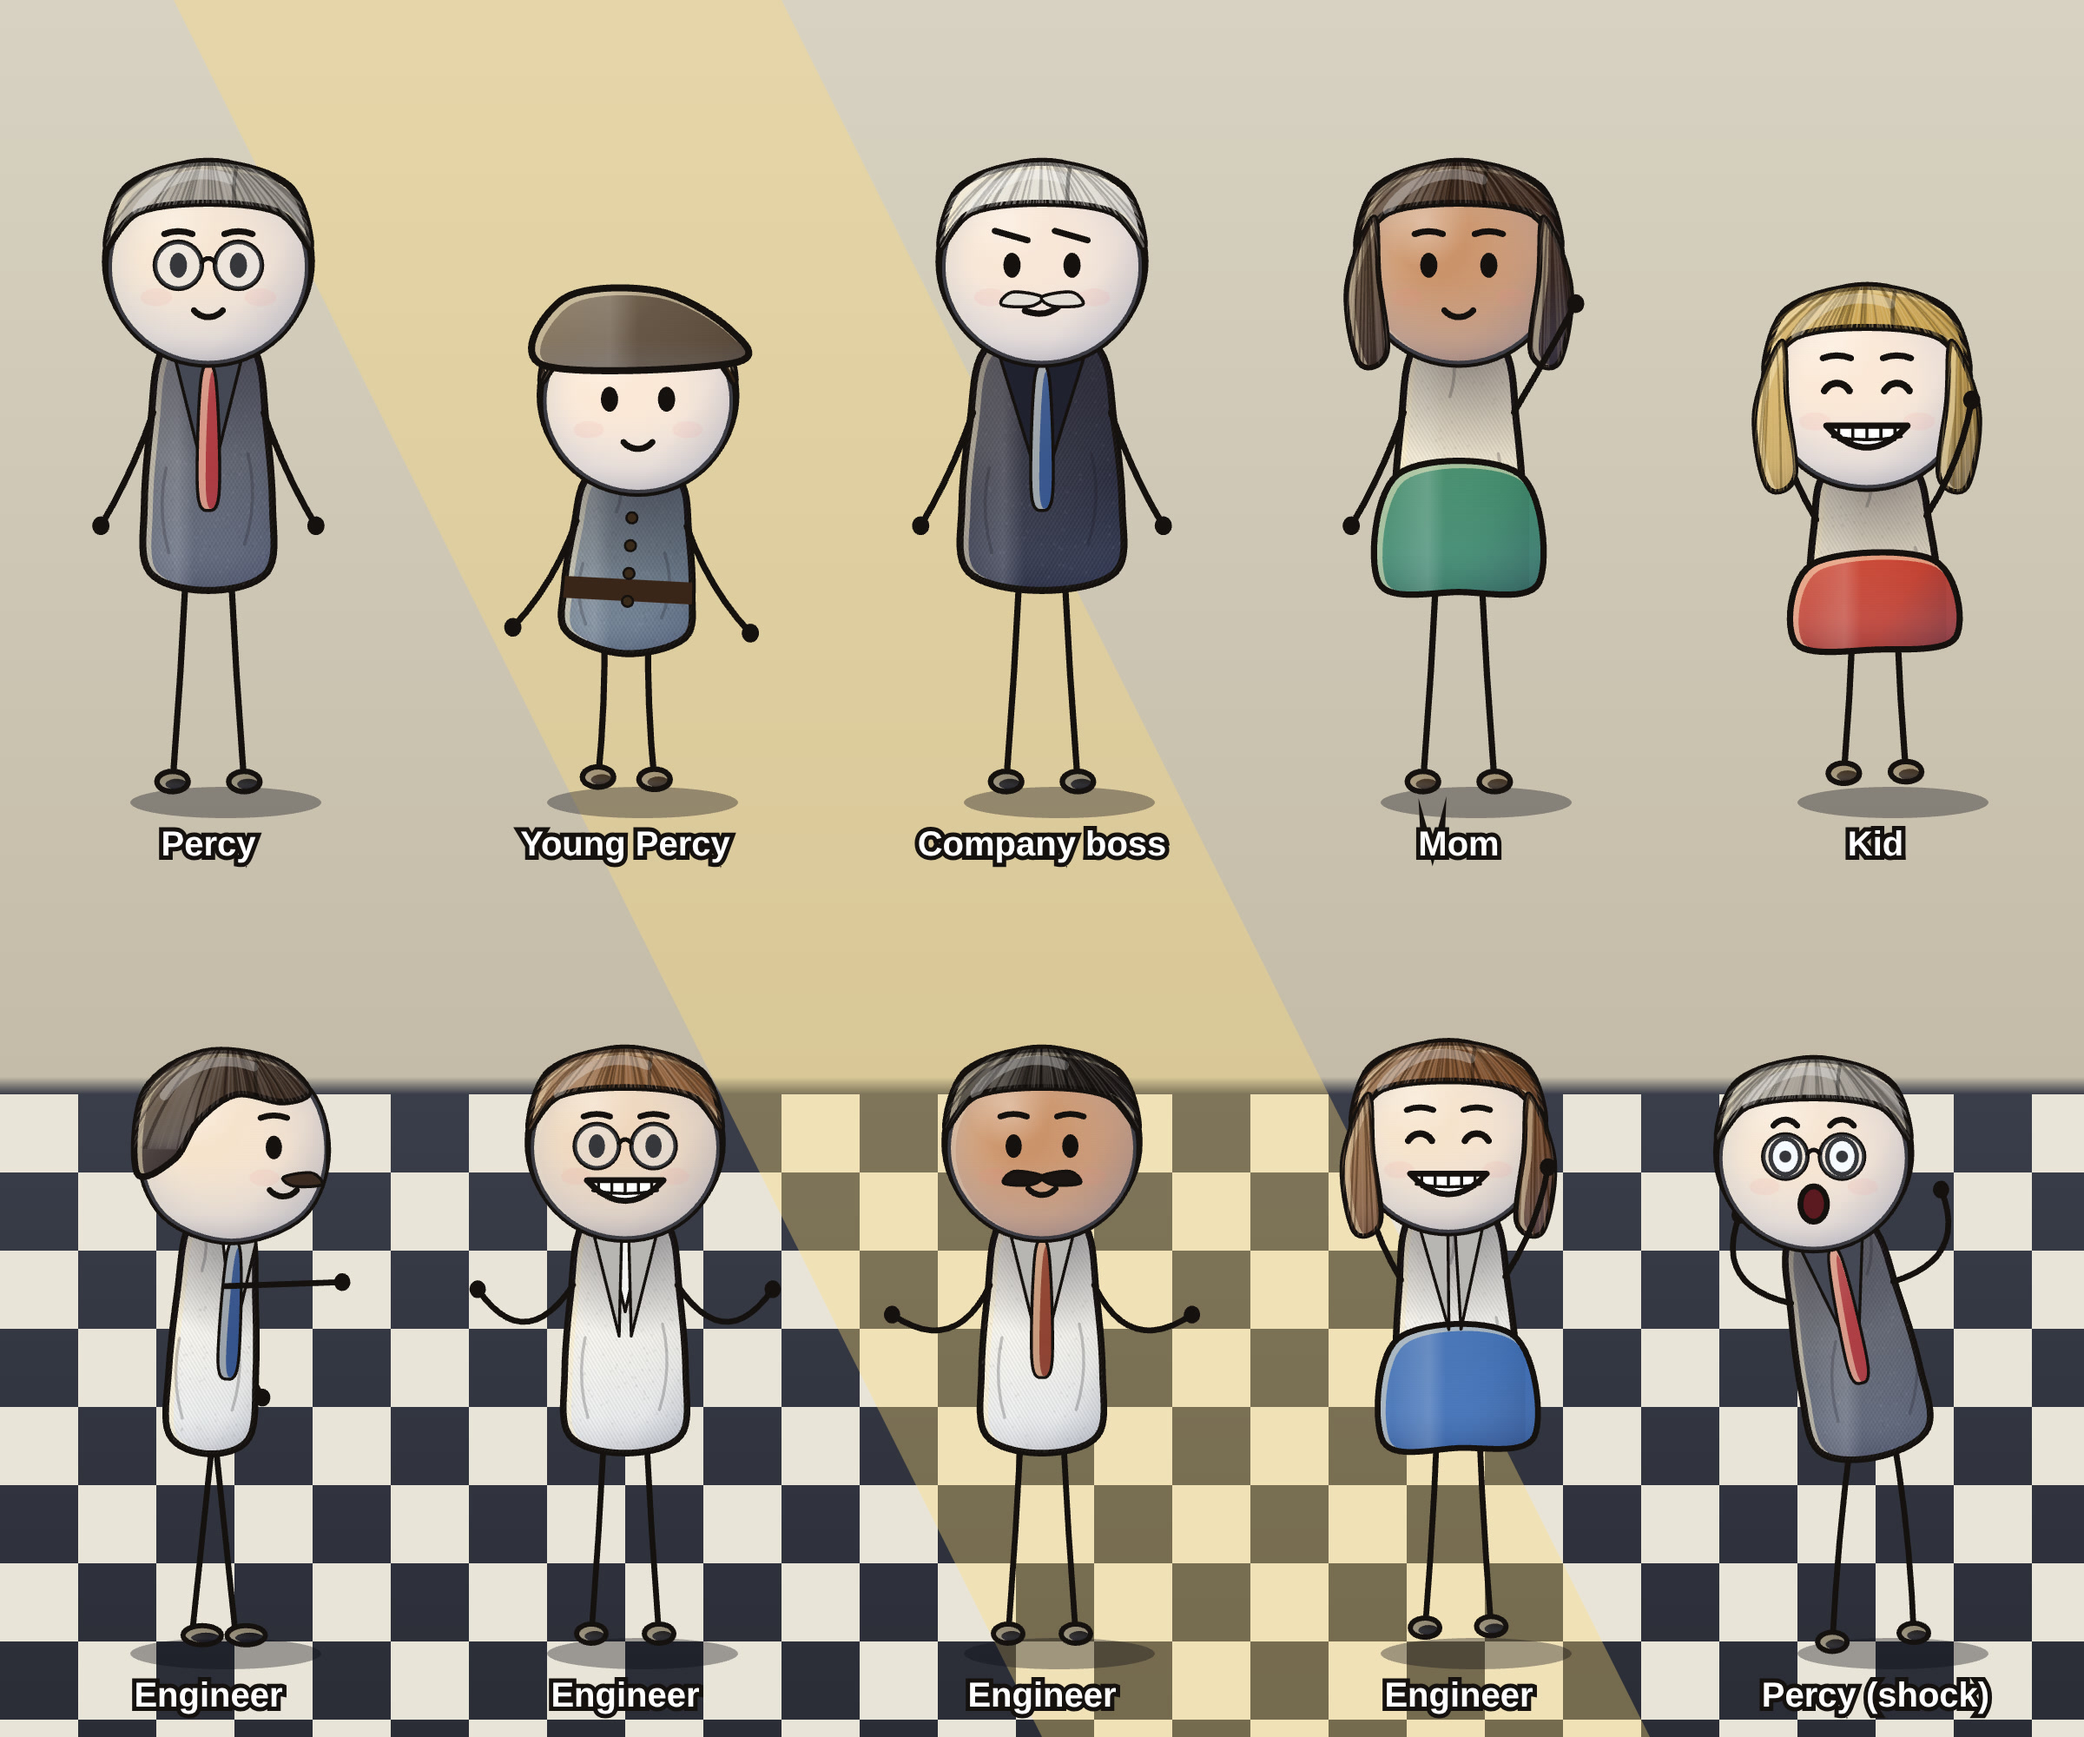
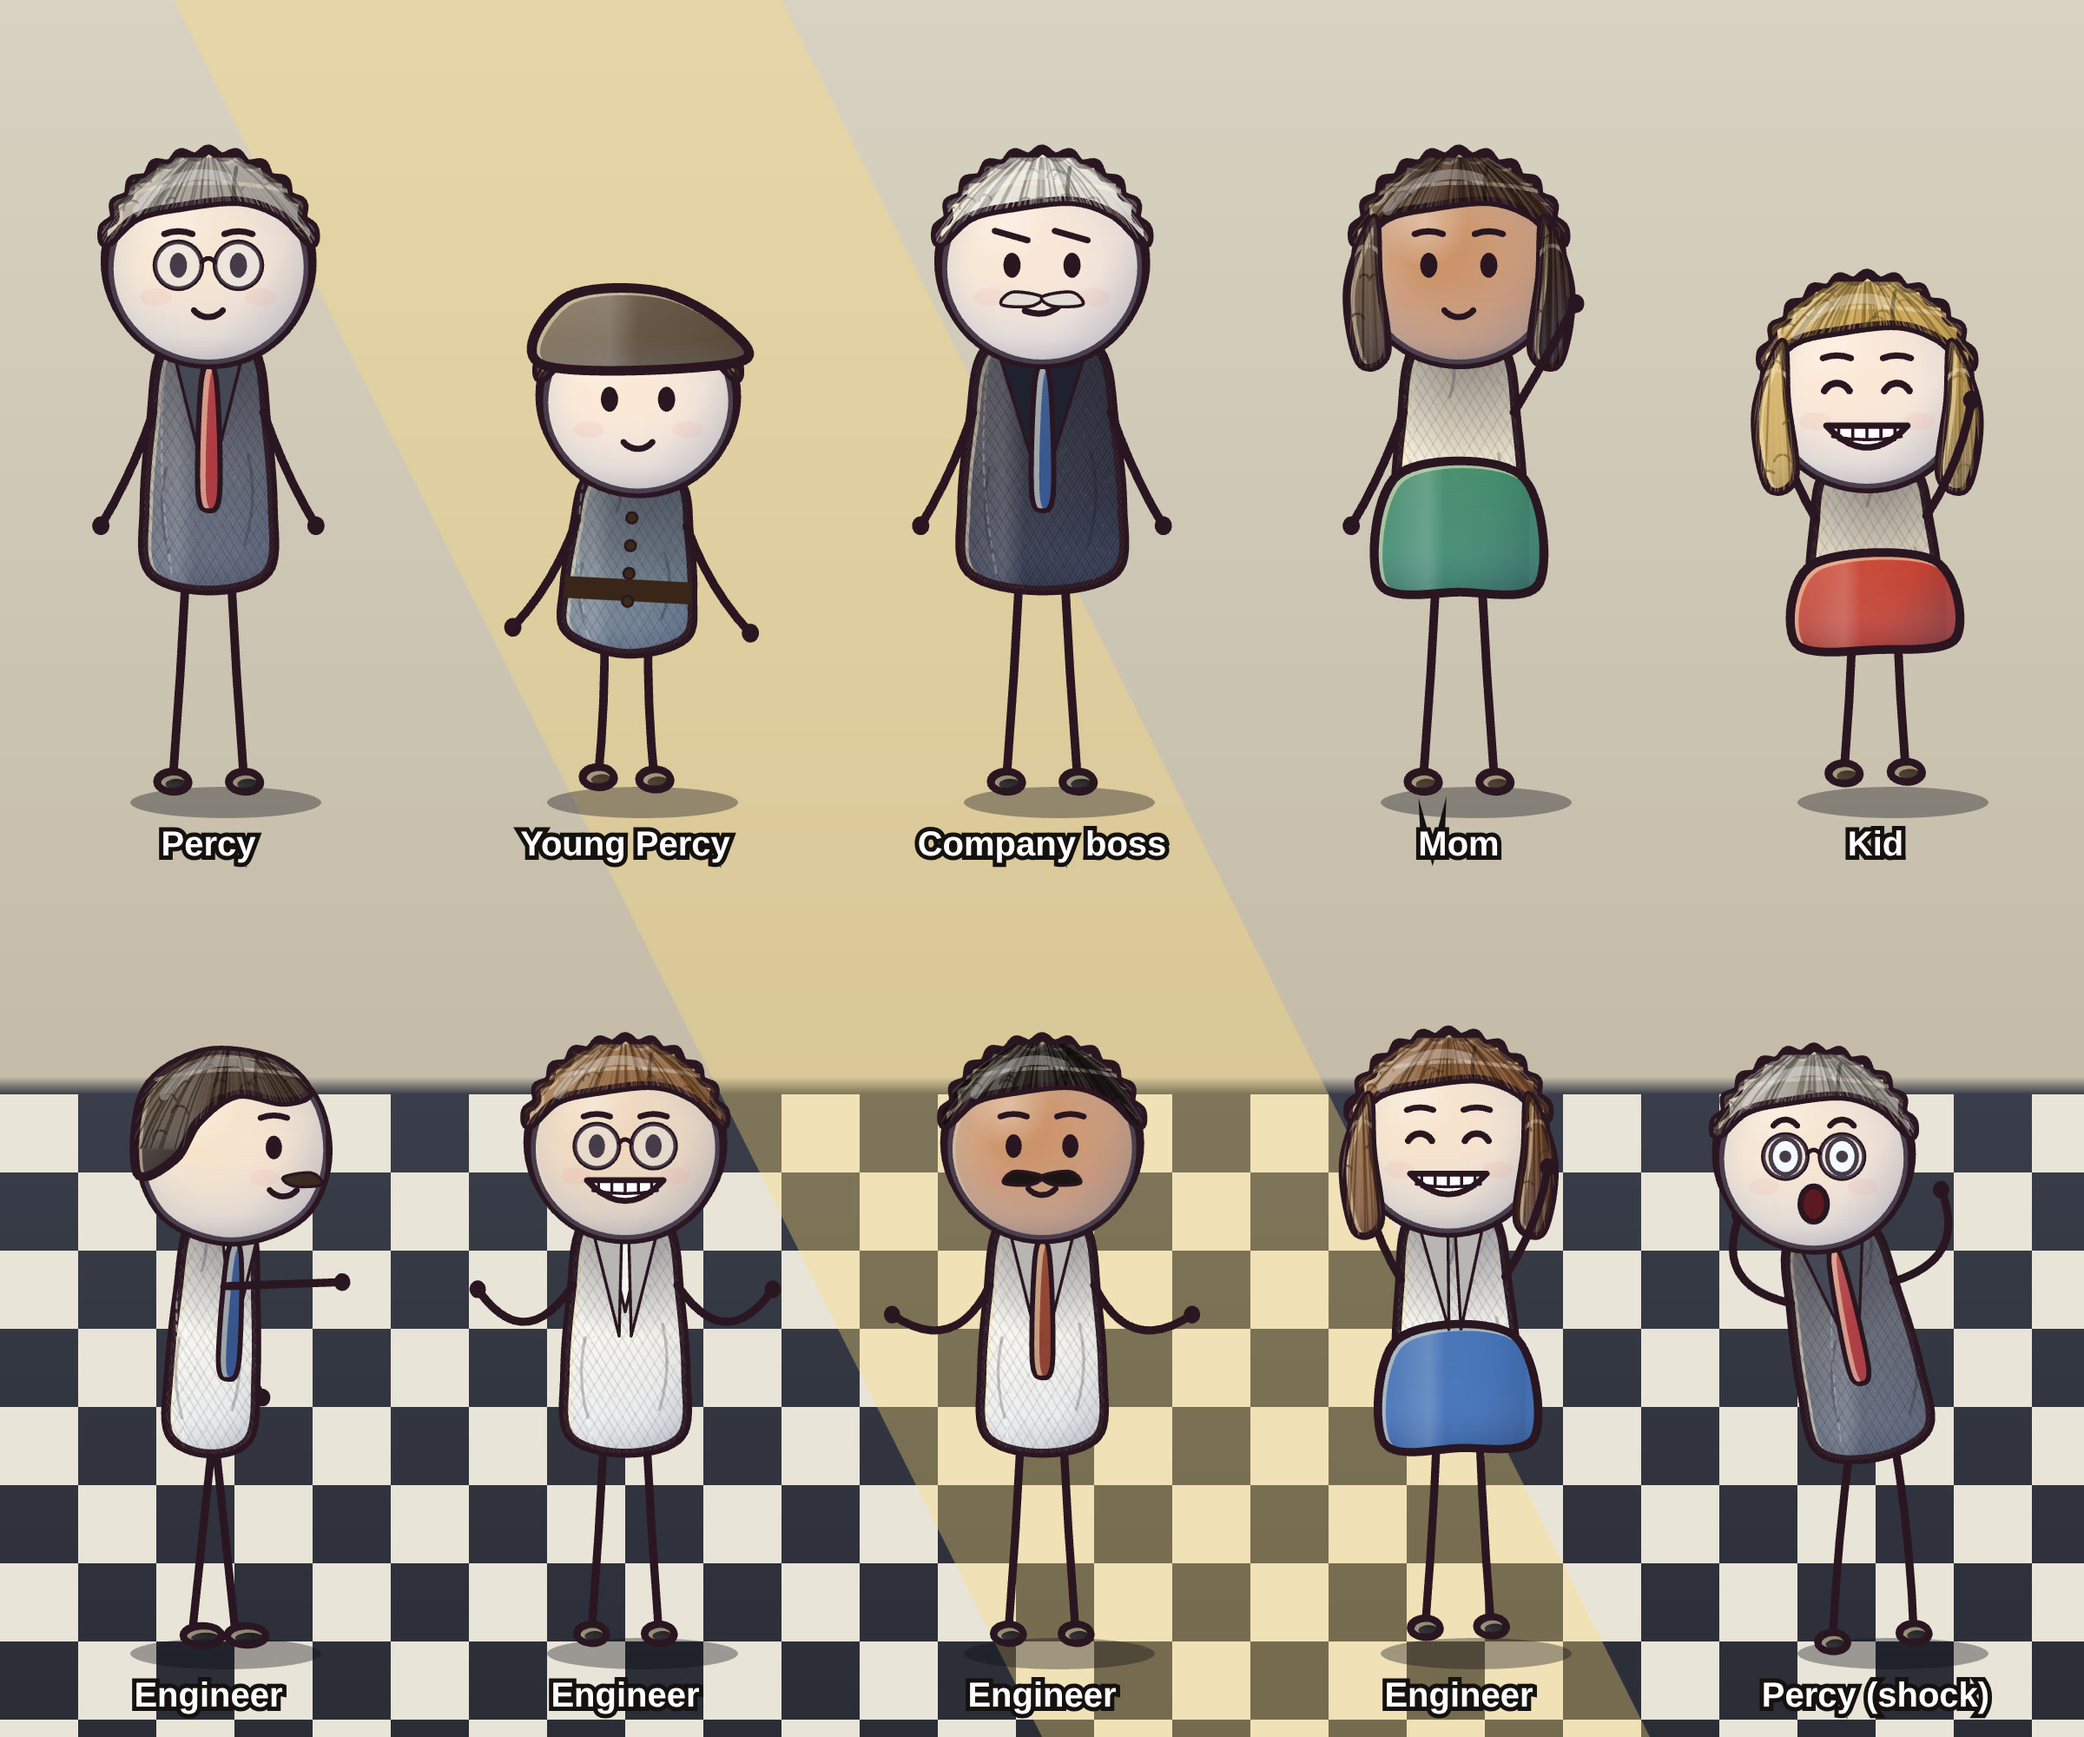
Microwave remake cast: bold brush outlines, textured hand-drawn hair, hatched clothes
Claude-Session: https://claude.ai/code/session_01Q4bYRoWeHLz4Sfdu9inVyj

diff --git a/rig/bean2.js b/rig/bean2.js
@@ -1,6 +1,6 @@
 // bean2.js: reference-style 2D characters: peanut body, big flat face, thick ink, noodle limbs, soft sun gradient.
 // drawBean(g, spec, pose, opt): origin at the ground between the feet, ~600 px tall.
-const INK = "#15110f";
+const INK = "#2a1620";
 const rad = (d) => (d * Math.PI) / 180;
 const hx = (h) => [1, 3, 5].map((i) => parseInt(h.slice(i, i + 2), 16));
 const mix = (a, b, t) => "#" + hx(a).map((v, i) => Math.round(v + (hx(b)[i] - v) * t).toString(16).padStart(2, "0")).join("");
@@ -8,8 +8,12 @@ const mix = (a, b, t) => "#" + hx(a).map((v, i) => Math.round(v + (hx(b)[i] - v)
 let RS = 7; const rnd = () => { RS = (RS * 16807) % 2147483647; return RS / 2147483647; };
 function fabric(g, path, bb, base) {
   g.save(); g.clip(path);
-  g.globalAlpha = 0.07; g.strokeStyle = "#000"; g.lineWidth = 1.5;
-  for (let x = bb.x - bb.h; x < bb.x + bb.w + bb.h; x += 5) { g.beginPath(); g.moveTo(x, bb.y); g.lineTo(x + bb.h * 0.6, bb.y + bb.h); g.stroke(); }
+  g.globalAlpha = 0.16; g.strokeStyle = mix(base, "#000000", 0.6); g.lineWidth = 2.2; g.lineCap = "round";
+  for (let x = bb.x - bb.h; x < bb.x + bb.w + bb.h; x += 11) { g.beginPath(); g.moveTo(x + (rnd() - 0.5) * 3, bb.y); g.lineTo(x + bb.h * 0.6 + (rnd() - 0.5) * 6, bb.y + bb.h); g.stroke(); }
+  g.globalAlpha = 0.12;
+  for (let x = bb.x - bb.h; x < bb.x + bb.w + bb.h; x += 16) { g.beginPath(); g.moveTo(x, bb.y + bb.h); g.lineTo(x + bb.h * 0.6, bb.y); g.stroke(); }
+  g.globalAlpha = 0.55; g.strokeStyle = mix(base, "#ffffff", 0.55); g.lineWidth = 2.5; g.setLineDash([9, 7]);   // stitched seam
+  g.beginPath(); g.moveTo(bb.x + bb.w * 0.2, bb.y + bb.h * 0.15); g.quadraticCurveTo(bb.x + bb.w * 0.12, bb.y + bb.h * 0.55, bb.x + bb.w * 0.24, bb.y + bb.h * 0.92); g.stroke(); g.setLineDash([]);
   g.globalAlpha = 0.05; g.strokeStyle = "#fff";
   for (let x = bb.x - bb.h; x < bb.x + bb.w + bb.h; x += 5) { g.beginPath(); g.moveTo(x, bb.y + bb.h); g.lineTo(x + bb.h * 0.6, bb.y); g.stroke(); }
   g.globalAlpha = 1;
@@ -20,6 +24,11 @@ function fabric(g, path, bb, base) {
   g.restore();
 }
 function hairStrands(g, path, bb, col) {
+  g.save(); g.clip(path); g.lineCap = "round"; g.strokeStyle = mix(col, "#000000", 0.5); g.globalAlpha = 0.6; g.lineWidth = 3;
+  for (let i = 0; i < Math.round(bb.w / 9); i++) { const x = bb.x + rnd() * bb.w, y = bb.y + rnd() * bb.h; g.beginPath(); g.arc(x, y, 6 + rnd() * 6, Math.PI * (0.9 + rnd() * 0.3), Math.PI * (1.7 + rnd() * 0.3)); g.stroke(); }
+  g.globalAlpha = 0.7; g.strokeStyle = mix(col, "#fff4dc", 0.7); g.lineWidth = 5;
+  g.beginPath(); g.moveTo(bb.x + bb.w * 0.12, bb.y + bb.h * 0.32); g.quadraticCurveTo(bb.x + bb.w * 0.5, bb.y + bb.h * 0.12, bb.x + bb.w * 0.88, bb.y + bb.h * 0.3); g.stroke();
+  g.restore();
   g.save(); g.clip(path); g.lineCap = "round";
   const n = Math.round(bb.w / 3.2);
   for (let i = 0; i < n; i++) { const t = i / n, x = bb.x + t * bb.w + (rnd() - 0.5) * 6, dark = rnd() < 0.4;
@@ -46,14 +55,15 @@ function fillLit(g, path, base, sun, bb, o = {}) {
   }
   g.translate(-lx * 6, -ly * 6); g.lineWidth = 12; g.strokeStyle = `rgba(255,240,200,${0.5 * sun.k})`; g.stroke(path);
   g.restore();
-  g.lineWidth = o.ol ?? 9; g.strokeStyle = INK; g.lineJoin = "round"; g.stroke(path);
-  if ((o.ol ?? 9) > 4) { g.save(); g.translate(1.6, 1.2); g.lineWidth = (o.ol ?? 9) * 0.55; g.strokeStyle = "rgba(21,17,15,0.55)"; g.stroke(path); g.restore(); }
+  const OW = (o.ol ?? 9) * 1.35; g.lineJoin = "round"; g.lineCap = "round"; g.strokeStyle = INK;
+  g.lineWidth = OW; g.stroke(path);
+  if (OW > 5) { g.save(); g.translate(1.8, 1.4); g.lineWidth = OW * 0.8; g.stroke(path); g.translate(-3.0, -0.6); g.lineWidth = OW * 0.6; g.globalAlpha = 0.85; g.stroke(path); g.restore(); }
 }
 const P = () => new Path2D();
 const ellP = (x, y, rx, ry, r = 0) => { const p = P(); p.ellipse(x, y, rx, ry, r, 0, Math.PI * 2); return p; };
 const smooth = (pts) => { const p = P(), n = pts.length; p.moveTo(...pts[0]); for (let i = 0; i < n; i++) { const a = pts[(i - 1 + n) % n], b = pts[i], c = pts[(i + 1) % n], d = pts[(i + 2) % n]; p.bezierCurveTo(b[0] + (c[0] - a[0]) / 6, b[1] + (c[1] - a[1]) / 6, c[0] - (d[0] - b[0]) / 6, c[1] - (d[1] - b[1]) / 6, c[0], c[1]); } p.closePath(); return p; };
 // noodle limb: smooth curve through 3 points, ink stroke with a thin coloured core (sleeve) at the top
-function noodle(g, a, b, c, w = 8) {
+function noodle(g, a, b, c, w = 11) {
   g.save(); g.lineCap = "round"; g.lineJoin = "round"; g.strokeStyle = INK; g.lineWidth = w;
   g.beginPath(); g.moveTo(...a); g.quadraticCurveTo(b[0] * 2 - (a[0] + c[0]) / 2, b[1] * 2 - (a[1] + c[1]) / 2, ...c); g.stroke(); g.restore();
 }
@@ -93,7 +103,7 @@ export function drawBean(g, sp, pose, opt = {}) {
   const AL = arm(-1, pose.shL, pose.elL), AR = arm(1, pose.shR, pose.elR);
   const hand = (p) => { g.fillStyle = INK; g.beginPath(); g.ellipse(p[0], p[1], 11, 12, 0, 0, 7); g.fill(); };
   if (side) { noodle(g, ...AL); hand(AL[2]); }
-  noodle(g, ...L, 8); shoe(L[2], side); noodle(g, ...R, 8); shoe(R[2], false);
+  noodle(g, ...L, 11); shoe(L[2], side); noodle(g, ...R, 11); shoe(R[2], false);
   // peanut body: wider hips, slight waist, rounded shoulders
   const bw = side ? bodyW * 0.72 : bodyW;
   const body = smooth([at(-bw * 0.92, 14), at(-bw * 1.0, bodyH * 0.3), at(-bw * 0.9, bodyH * 0.62), at(-bw * 0.72, bodyH * 0.9), at(0, bodyH * 1.0), at(bw * 0.72, bodyH * 0.9), at(bw * 0.9, bodyH * 0.62), at(bw * 1.0, bodyH * 0.3), at(bw * 0.92, 14), at(0, -10)]);
@@ -137,7 +147,7 @@ function drawHead(g, sp, c, r, sun, side, pose, opt) {
   // hair cap with grey streak highlights (reference style)
   if (sp.hair) {
     const hp = side ? smooth([[x - r * 1.0, y + r * 0.25], [x - r * 0.92, y - r * 0.62], [x - r * 0.3, y - r * 1.03], [x + r * 0.45, y - r * 0.95], [x + r * 0.82, y - r * 0.62], [x + r * 0.55, y - r * 0.5], [x + r * 0.05, y - r * 0.58], [x - r * 0.35, y - r * 0.3], [x - r * 0.6, y + r * 0.1]])
-      : smooth([[x - r * 1.02, y - r * 0.2], [x - r * 0.8, y - r * 0.82], [x, y - r * 1.05], [x + r * 0.8, y - r * 0.82], [x + r * 1.02, y - r * 0.2], [x + r * 0.7, y - r * 0.55], [x, y - r * 0.64], [x - r * 0.7, y - r * 0.55]]);
+      : (() => { const pts = []; for (let i = 0; i <= 22; i++) { const a = Math.PI * (1.05 + 0.9 * i / 22), bump = 1.04 + (i % 2 ? 0.06 : -0.01); pts.push([x + Math.cos(a) * r * bump, y - r * 0.08 + Math.sin(a) * r * bump]); } pts.push([x + r * 0.72, y - r * 0.52], [x + r * 0.3, y - r * 0.66], [x - r * 0.3, y - r * 0.6], [x - r * 0.72, y - r * 0.5]); return smooth(pts); })();
     fillLit(g, hp, C.hair, sun, { x: x - r, y: y - r, w: 2 * r, h: r }, { ol: 9 });
     hairStrands(g, hp, { x: x - r * 1.05, y: y - r * 1.06, w: r * 2.1, h: r * 1.0 }, C.hair);
     g.save(); g.clip(hp); g.strokeStyle = "rgba(255,255,255,0.3)"; g.lineWidth = r * 0.1; g.lineCap = "round";
